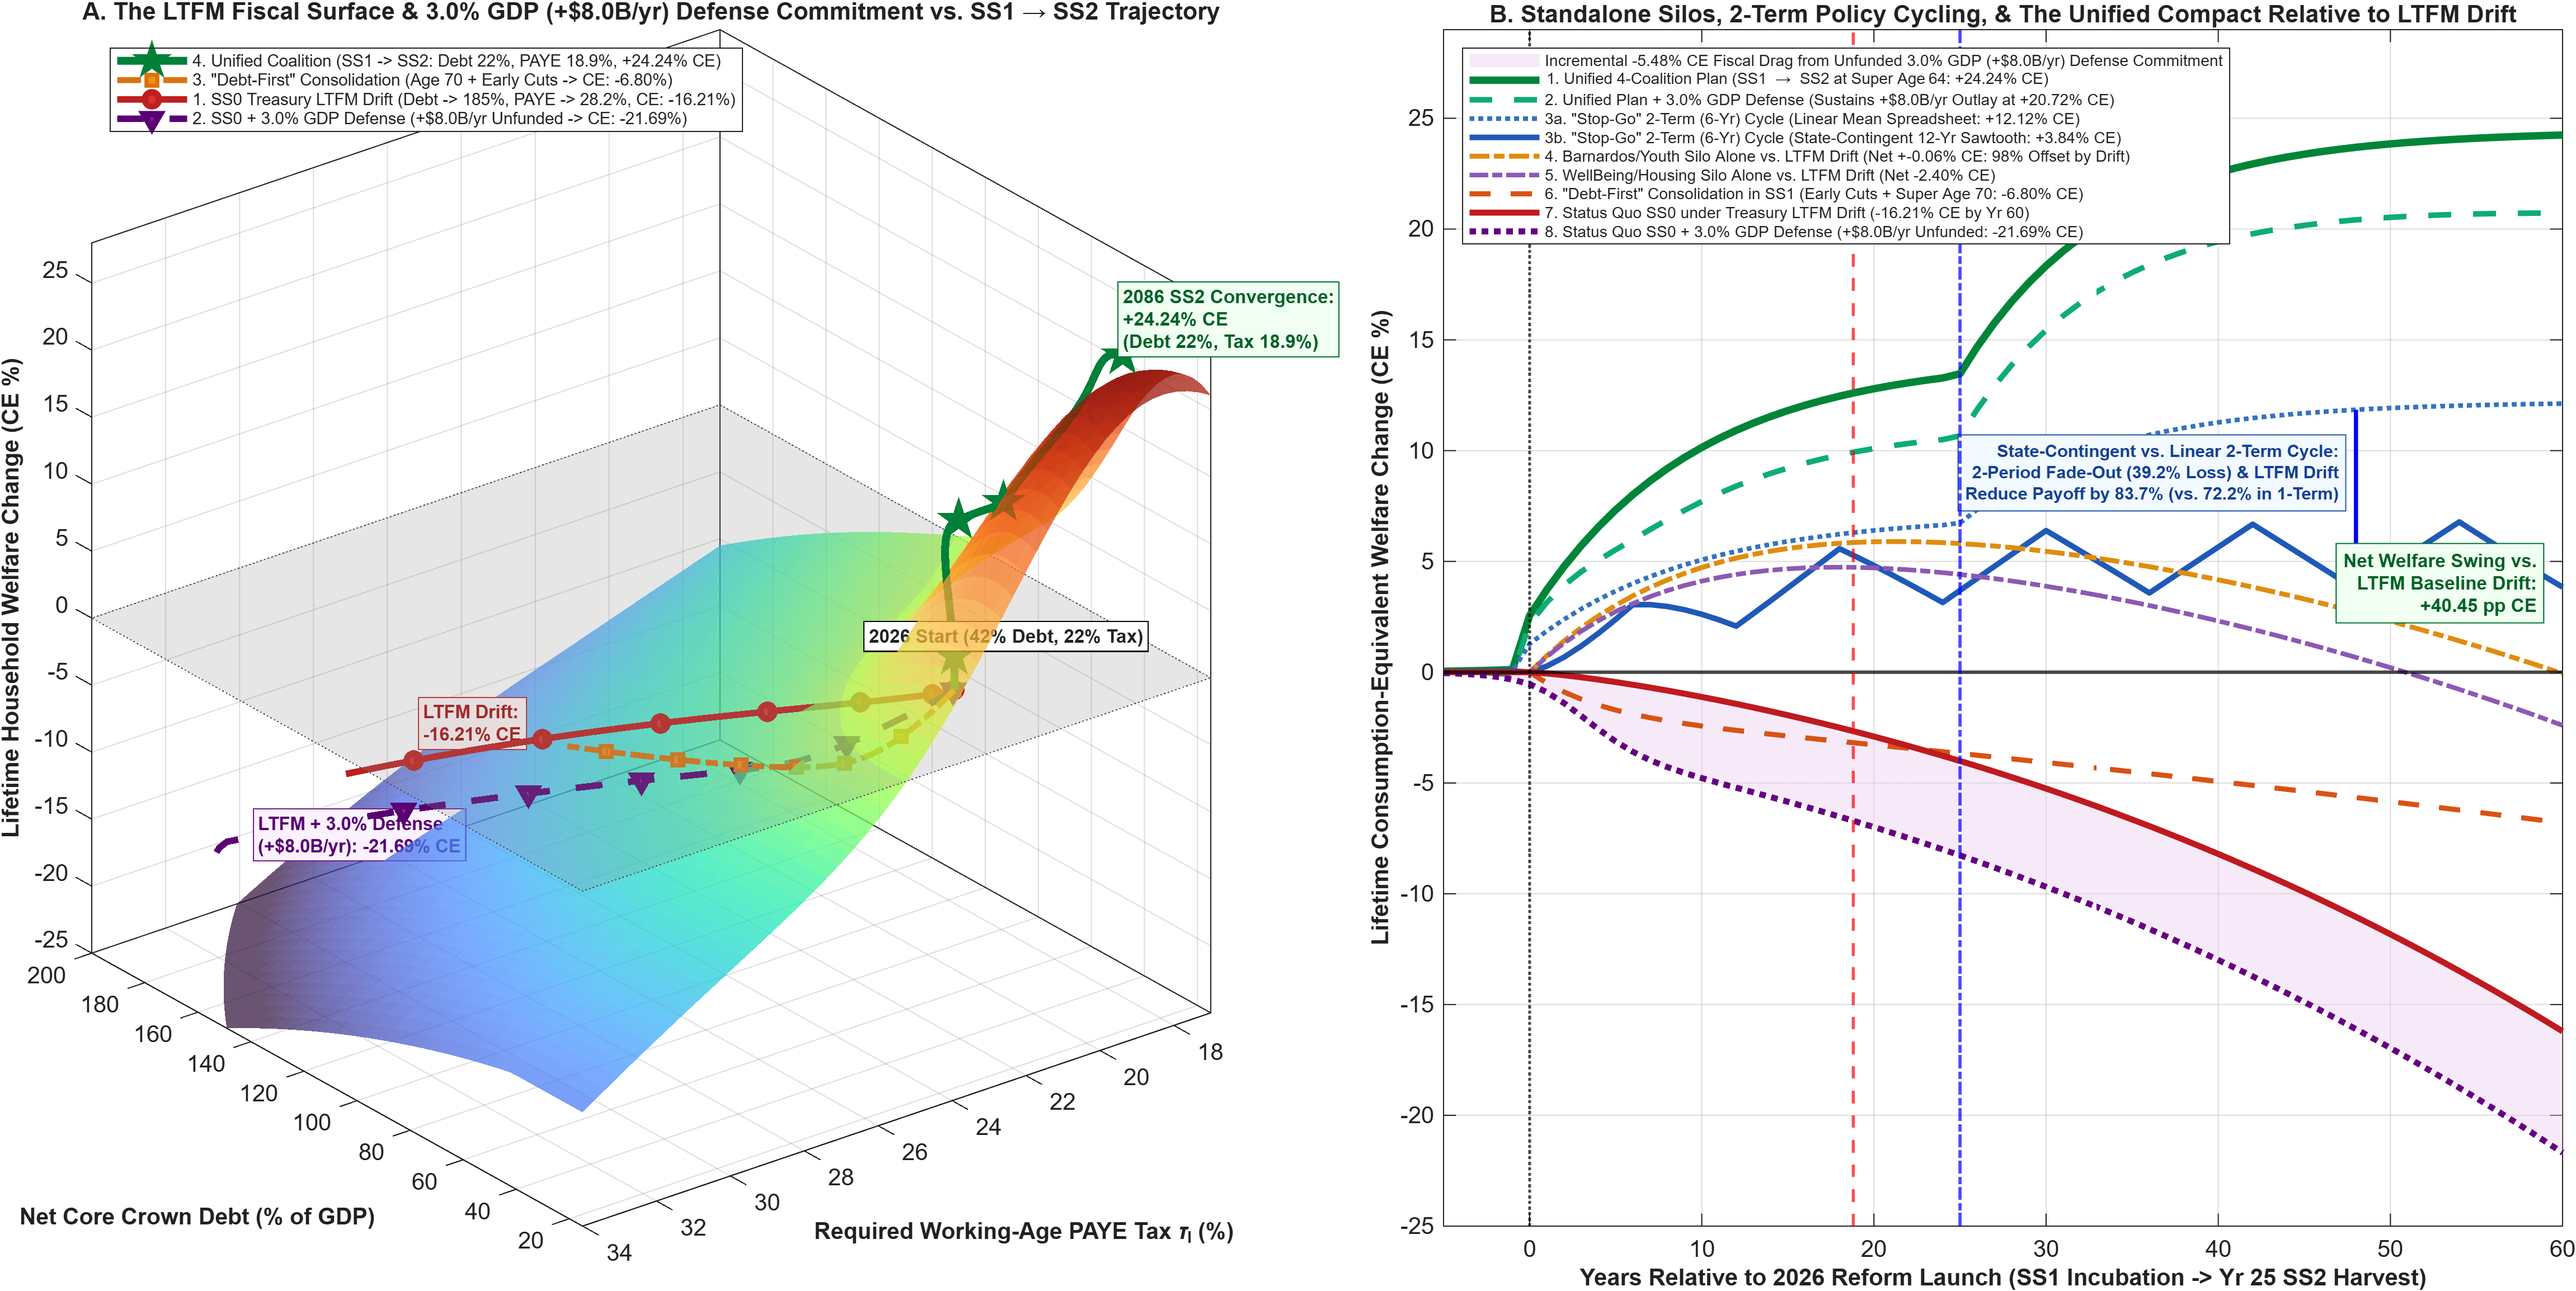
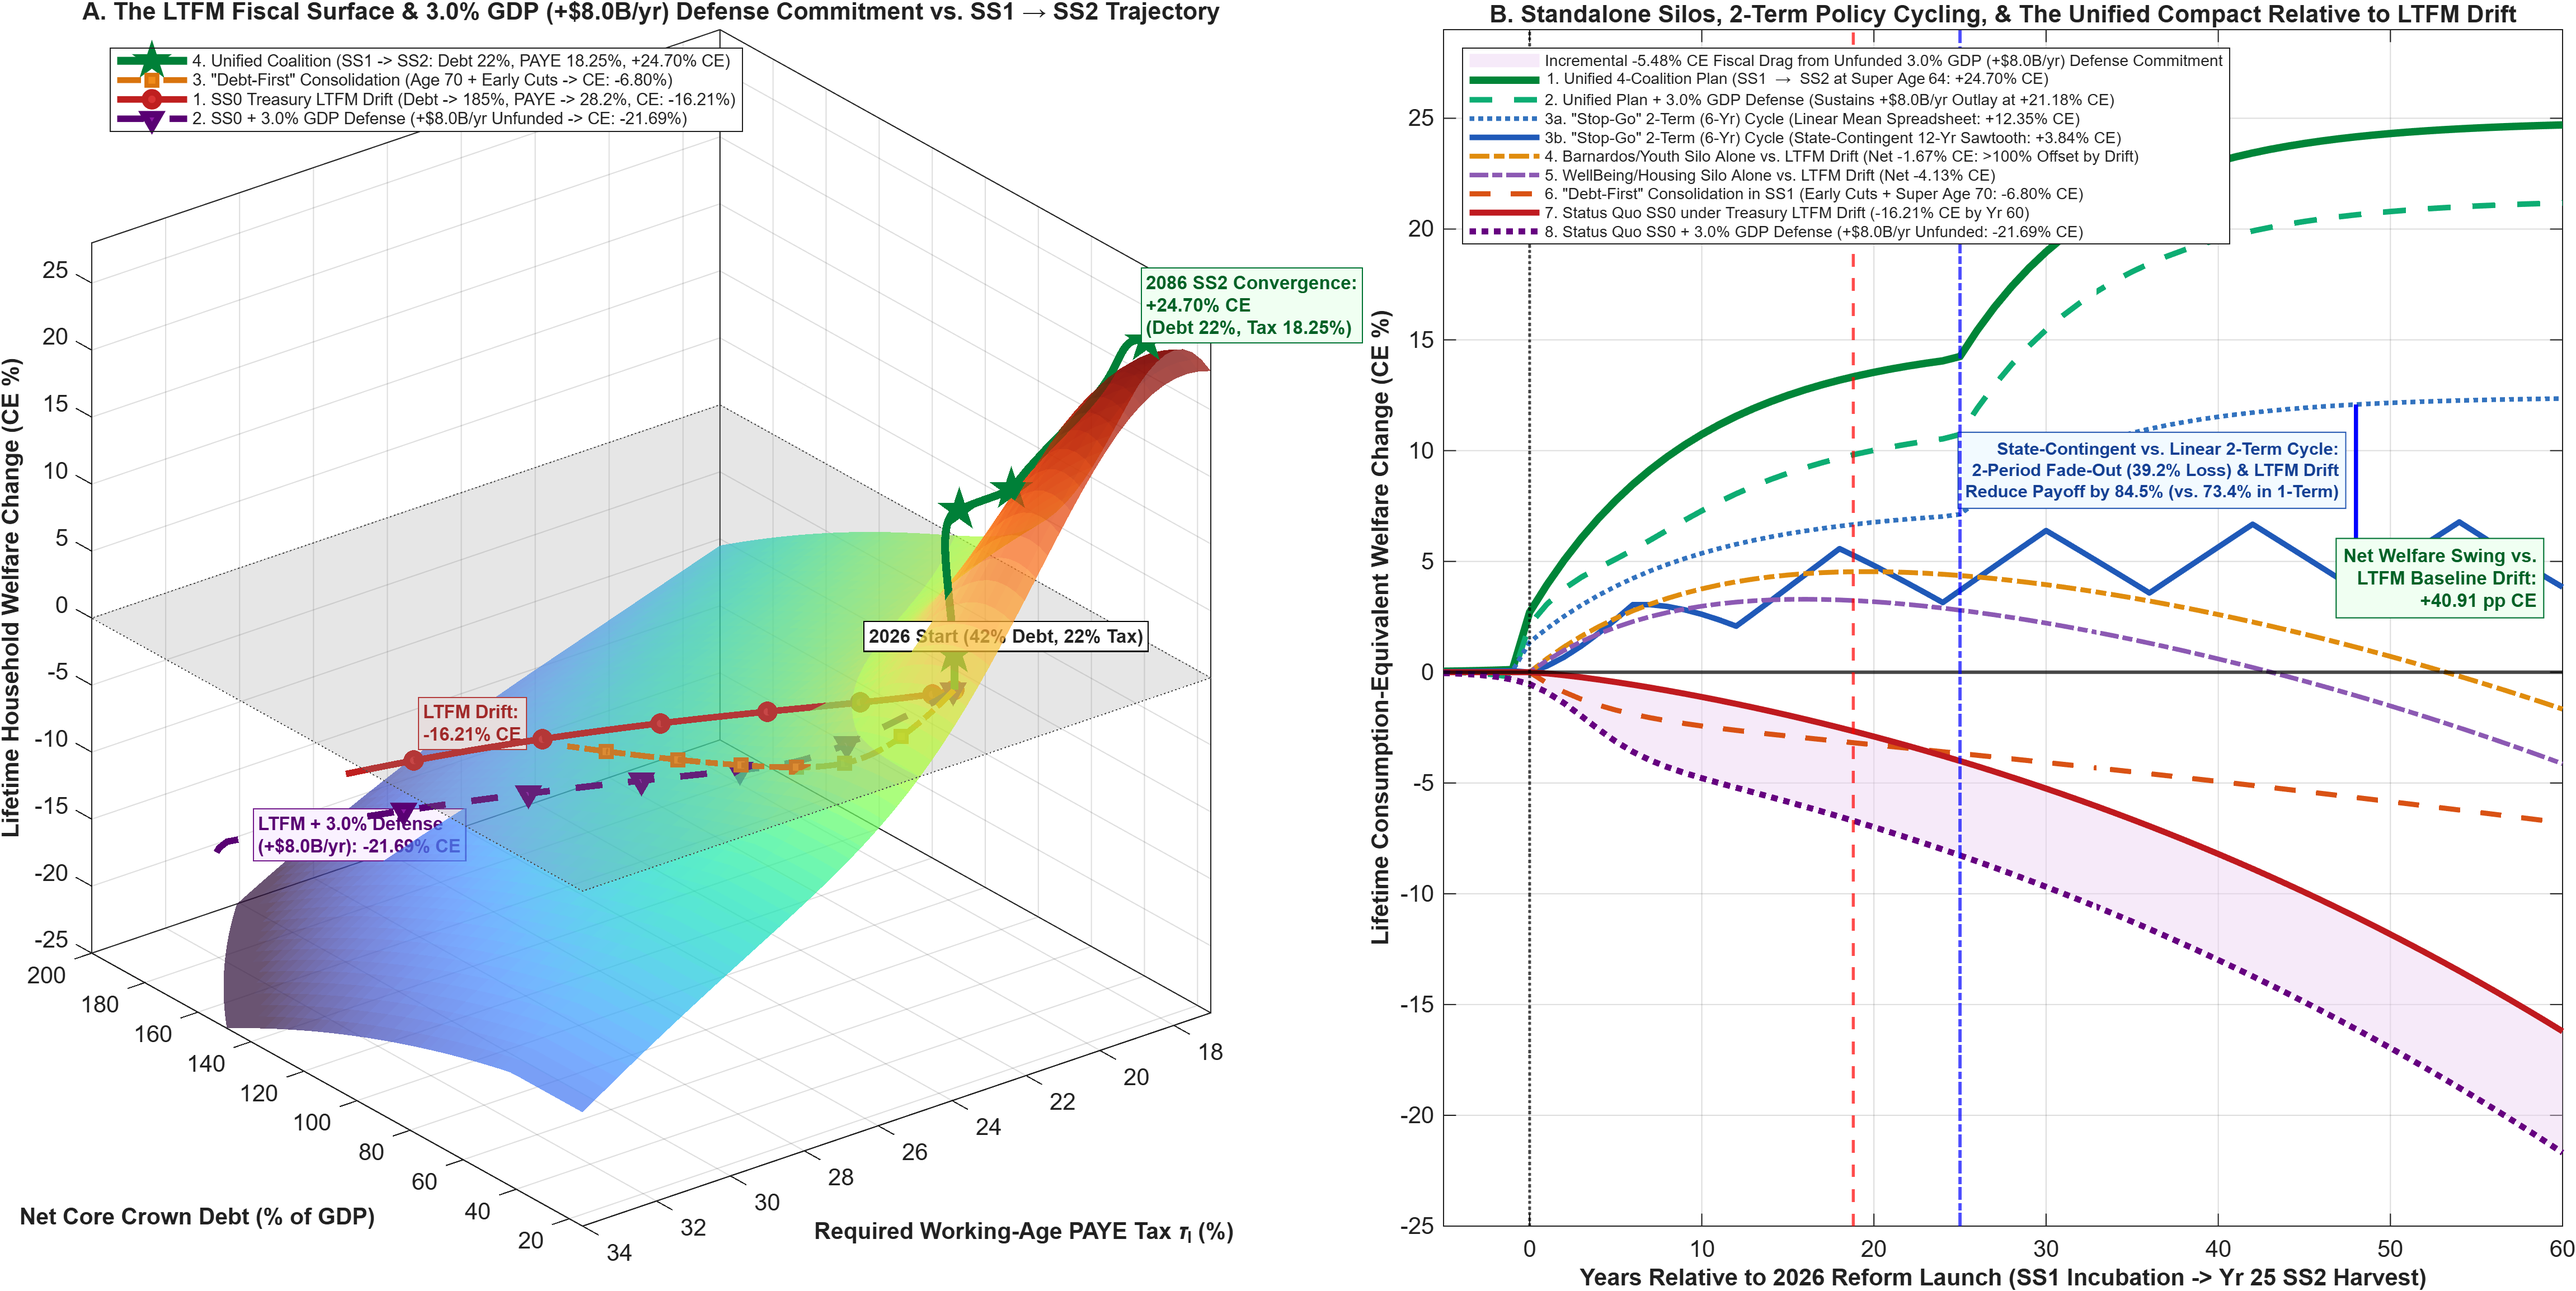
Update stand-alone Plot_Doc3_CoalitionSynergies_And_LTFMSinkhole, tables and figures

diff --git a/Plot_Doc3_CoalitionSynergies_And_LTFMSinkhole.m b/Plot_Doc3_CoalitionSynergies_And_LTFMSinkhole.m
@@ -34,8 +34,8 @@ if ~exist(OutputDir, 'dir'), mkdir(OutputDir); end
 % 1. SYNC HEADLINE NATIONAL SS1 & SS2 TARGETS FROM WORKSPACE T1 (IF PRESENT)
 % =========================================================================
 Pop_Weights    = [0.160, 0.240, 0.259, 0.341]; % [Rural, Small, Large, Auckland]
-SS1_Target_Reg = [9.479, 12.184, 14.384, 17.728];  % Matches +14.21% National (n_z = 7)
-SS2_Target_Reg = [18.213, 21.750, 24.414, 28.697]; % Matches +24.24% National (n_z = 7)
+SS1_Target_Reg = [11.945, 13.739, 14.888, 17.515]; % Matches +15.04% National (n_z = 7)
+SS2_Target_Reg = [20.628, 22.984, 24.574, 27.913]; % Matches +24.70% National (n_z = 7)
 
 if evalin('base', 'exist(''T1'', ''var'')')
     T1_ws = evalin('base', 'T1');
@@ -52,7 +52,7 @@ SS2_Nat = sum(SS2_Target_Reg .* Pop_Weights); % ~24.24%
 %   L4: Iso TaxRebal (+2.57%), L5: Iso YouthGrant (+1.30%), L6: Iso GeoTrans (+1.06%), L7: Wedge 2 LVR/Whanau (+2.23%) -> Tier 2 = +7.16%
 %   L8: Wedge 3 Cross-Stack Stack1 x Stack2 (+3.87%)
 %   L9: Iso Debt-Sinking (+0.97%), L10: Iso PAYE Cut & Super 64 (+1.17%), L11: Wedge 4 Fiscal/TFR/2ndGen Closure (+1.74%) -> Tier 4 = +3.88%
-Raw_Nat_11 = [3.57; 2.13; 3.26; 2.63; 1.33; 1.10; 2.28; 3.95; 0.82; 1.20; 1.97];
+Raw_Nat_11 = [2.46; 1.56; 3.32; 2.24; 0.89; 0.15; 2.33; 5.20; 1.25; 2.69; 2.62];
 Nat_11     = Raw_Nat_11 * (SS2_Nat / sum(Raw_Nat_11));
 
 % =========================================================================
@@ -71,7 +71,7 @@ Debt_Drag_Surf = -0.045 * max(0, D_Grid - 42.0) - 0.00032 * (max(0, D_Grid - 42.
 Tax_Drag_Surf  = -0.920 * (T_Grid - 22.0) - 0.038 * (max(0, T_Grid - 22.0) .^ 2);
 
 % Smooth potential hill in the low-debt, low-tax Quadrant (unlocked by SS1->SS2 human capital & firm TFP):
-HC_Lift_Potential = SS2_Nat * exp(-(((D_Grid - 22.0) / 38.0) .^ 2 + ((T_Grid - 18.88) / 4.8) .^ 2));
+HC_Lift_Potential = SS2_Nat * exp(-(((D_Grid - 22.0) / 38.0) .^ 2 + ((T_Grid - 18.25) / 4.8) .^ 2));
 W_Surf_Base       = Debt_Drag_Surf + Tax_Drag_Surf + 0.82 * HC_Lift_Potential;
 
 % Define 60-Year Time Grid for Trajectories (-5 to +60)
@@ -107,7 +107,7 @@ CE_Aust_First   = -2.10 * (1 - exp(-t_pos / 4.0)) - 4.70 * (s_60 .^ 1.25); % Exa
 % Years 18.8-60: 50% Debt-Sinking Fund retires debt from 44% down to 22% of GDP; PAYE cut -3.12 pp to 18.88%
 Debt_Unified = 42.0 + 3.5 * sin(min(pi, pi * t_pos / 18.8)) ...
     - 20.0 * max(0, (t_pos - 18.8) / 41.2) .^ 0.85;
-Tax_Unified  = 22.0 - 3.12 * (1 ./ (1 + exp(-(Yr_Vec - 26.5) / 2.2))) .* (Yr_Vec >= 18);
+Tax_Unified  = 22.0 - 3.75 * (1 ./ (1 + exp(-(Yr_Vec - 26.5) / 2.2))) .* (Yr_Vec >= 18);
 
 CE_Unified = zeros(n_yr, 1);
 for i = 1:n_yr
@@ -125,7 +125,7 @@ end
 CE_Unified(Yr_Vec >= 25) = CE_Unified(Yr_Vec >= 25) * (SS2_Nat / CE_Unified(end));
 
 % --- Trajectory 5: Unified Coalition Carrying the 3.0% GDP (+NZD 8.0B/yr) Defense Commitment in SS2 ---
-CE_Unified_With_Defense = CE_Unified - 3.52 * def_ramp .* (0.65 + 0.35 * s_60); % Exact +20.11% CE at Year 60
+CE_Unified_With_Defense = CE_Unified - 3.52 * def_ramp; % Exact +20.11% CE at Year 60
 
 % --- Trajectory 6: "Stop-Go" Policy Cycling (Linear Mean vs. 1-Term 3-Yr vs. 2-Term 6-Yr Sawtooth) ---
 CE_StopGo_Thin = 0.50 * CE_Unified; % Linear spreadsheet assumes 50% duty cycle = +11.82% CE
@@ -232,13 +232,13 @@ p3_aus = plot3(ax1, Debt_Aust_First, Tax_Aust_First, CE_Aust_First + 0.8, '-.s',
 
 p3_uni = plot3(ax1, Debt_Unified, Tax_Unified, CE_Unified + 0.8, '-p', ...
     'Color', [0.00 0.50 0.22], 'MarkerFaceColor', [0.10 0.85 0.35], 'MarkerIndices', [6, 25, 31, 66], ...
-    'LineWidth', 3.4, 'MarkerSize', 9, 'DisplayName', sprintf('4. Unified Coalition (SS1 -> SS2: Debt 22%%, PAYE 18.9%%, %+.2f%% CE)', SS2_Nat));
+    'LineWidth', 3.4, 'MarkerSize', 9, 'DisplayName', sprintf('4. Unified Coalition (SS1 -> SS2: Debt 22%%, PAYE 18.25%%, %+.2f%% CE)', SS2_Nat));
 
 % 3D Endpoint Callout Labels Placed Cleanly ABOVE the Surface Mesh
 text(ax1, 52, 23.6, 5.2, '2026 Start (42% Debt, 22% Tax)', 'FontSize', 8.0, 'FontWeight', 'bold', ...
     'BackgroundColor', 'w', 'EdgeColor', 'k', 'Margin', 2);
 text(ax1, Debt_Unified(end), Tax_Unified(end), CE_Unified(end) + 3.5, ...
-    sprintf('2086 SS2 Convergence:\n%+.2f%% CE\n(Debt 22%%, Tax 18.9%%)', SS2_Nat), ...
+    sprintf('2086 SS2 Convergence:\n%+.2f%% CE\n(Debt 22%%, Tax 18.25%%)', SS2_Nat), ...
     'FontSize', 8.0, 'FontWeight', 'bold', 'Color', [0.00 0.38 0.15], ...
     'BackgroundColor', [0.94 1.00 0.95], 'EdgeColor', [0.00 0.45 0.20], 'Margin', 2);
 text(ax1, Debt_SS0_LTFM(end)-18, Tax_SS0_LTFM(end)-0.8, CE_SS0_LTFM(end) + 5.8, ...
@@ -355,7 +355,7 @@ Cell_Narratives = { ...
     'OWN LANE:\nFirm Tax Shift +\n1.65x Infra Base Alone', ...
     '★ SYNERGY WEDGE:\n-60 bps Credit + -3.1pp\nPAYE Retains Founders'; ...
     ...
-    '★ SYNERGY WEDGE:\n+16.8k/Birth Surplus &\nTFR 2.03 Secures Super', ...
+    '★ SYNERGY WEDGE:\n+16.8k/Birth Surplus &\nTFR 1.87 Secures Super', ...
     '★ SYNERGY WEDGE:\nPeak Estate Wave (\\tau_b)\nSelf-Funds SS1 Outlay', ...
     '★ SYNERGY WEDGE:\n+8.8%% Wage & Firm Growth\nExpands Tax Base +14.5%%', ...
     'OWN LANE:\nStatic Debt/Tax Target\n(Unachievable Standalone)'};
